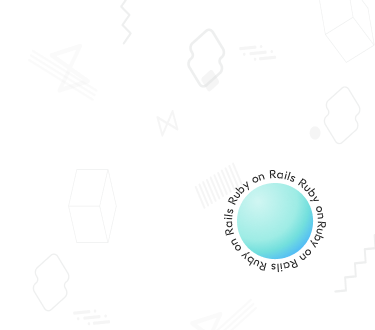
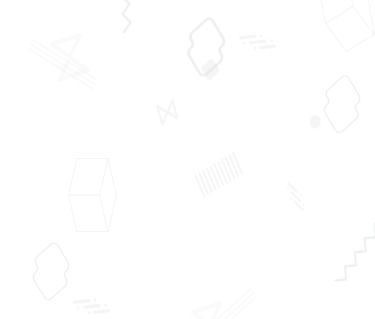
feat:add  planet text block in section lazy-bison

Changed region(s): [[0.5867, 0.5078, 0.88, 0.8182]]

diff --git a/index.html b/index.html
@@ -81,7 +81,7 @@
 										<object class='circle-ruby-on-rails' type="image/svg+xml"
 											data="./assets/icons/circleRubyOnRails.svg">
 										</object>
-										<div class='planet-blue' alt="planet-blue"></div>
+										<div class='planet-blue'></div>
 									</div>
 								</div>
 							</div>
@@ -98,6 +98,11 @@
 									100+
 									<span class="lazy-bison__stats-subtext text--medium">clients worldwide</span>
 								</p>
+								<div class="planet-text">
+									<object class='circle-ruby-on-rails' type="image/svg+xml" data="./assets/icons/circleRubyOnRails.svg">
+									</object>
+									<div class='planet-blue'></div>
+								</div>
 							</div>
 						</div>
 					</div>
@@ -308,7 +313,7 @@
 							<div class="planet-text">
 								<object class='circle-ruby-on-rails' type="image/svg+xml" data="./assets/icons/circleRubyOnRails.svg">
 								</object>
-								<div class='planet-blue' alt="planet-blue"></div>
+								<div class='planet-blue'></div>
 							</div>
 							<div class="swiper-wrapper projects-wrapper">
 								<div class="swiper-slide project-slide">
@@ -438,7 +443,7 @@
 							<div class="planet-text">
 								<object class='circle-ruby-on-rails' type="image/svg+xml" data="./assets/icons/circleRubyOnRails.svg">
 								</object>
-								<div class='planet-blue' alt="planet-blue"></div>
+								<div class='planet-blue'></div>
 							</div>
 							<p class="consultation__description text--large">
 								Want to transform your product vision into reality with our

diff --git a/styles/css/main.css b/styles/css/main.css
@@ -643,6 +643,9 @@ img {
     gap: 0;
     flex-wrap: wrap;
   }
+  .lazy-bison__stats .planet-text {
+    display: none;
+  }
   .lazy-bison__stats-text {
     font-size: 2.75rem;
     line-height: 3.85rem;
@@ -729,6 +732,27 @@ img {
     flex-wrap: wrap;
     gap: 3rem 1.5rem;
     flex-basis: auto;
+  }
+  .lazy-bison__stats .planet-text {
+    display: block;
+    position: relative;
+    top: 1.6875rem;
+    left: 52px;
+  }
+  .lazy-bison__stats .planet-blue {
+    width: 4.25rem;
+    height: 4.25rem;
+    top: -1.3125rem;
+    left: auto;
+    right: -0.375rem;
+  }
+  .lazy-bison__stats .circle-ruby-on-rails {
+    width: 5.9375rem;
+    height: 6.0675rem;
+    top: -35px;
+    left: auto;
+    right: -1.25rem;
+    animation: none;
   }
   .lazy-bison__stats-text {
     font-size: 2.625rem;

diff --git a/styles/scss/sections/_section-lazy-bison.scss b/styles/scss/sections/_section-lazy-bison.scss
@@ -213,6 +213,9 @@
 		justify-content: space-around;
 		gap: 0;
 		flex-wrap: wrap;
+		.planet-text {
+			display: none;
+		}
 	}
 
 	.lazy-bison__stats-text {
@@ -318,6 +321,30 @@
 		flex-wrap: wrap;
 		gap: 3rem 1.5rem;
 		flex-basis: auto;
+
+		.planet-text {
+			display: block;
+			position: relative;
+			top: 1.6875rem;
+			left: 52px;
+		}
+
+		.planet-blue {
+			width: 4.25rem;
+			height: 4.25rem;
+			top: -1.3125rem;
+			left: auto;
+			right: -0.375rem;
+		}
+
+		.circle-ruby-on-rails {
+			width: 5.9375rem;
+			height: 6.0675rem;
+			top: -35px;
+			left: auto;
+			right: -1.25rem;
+			animation: none;
+		}
 	}
 
 	.lazy-bison__stats-text {
